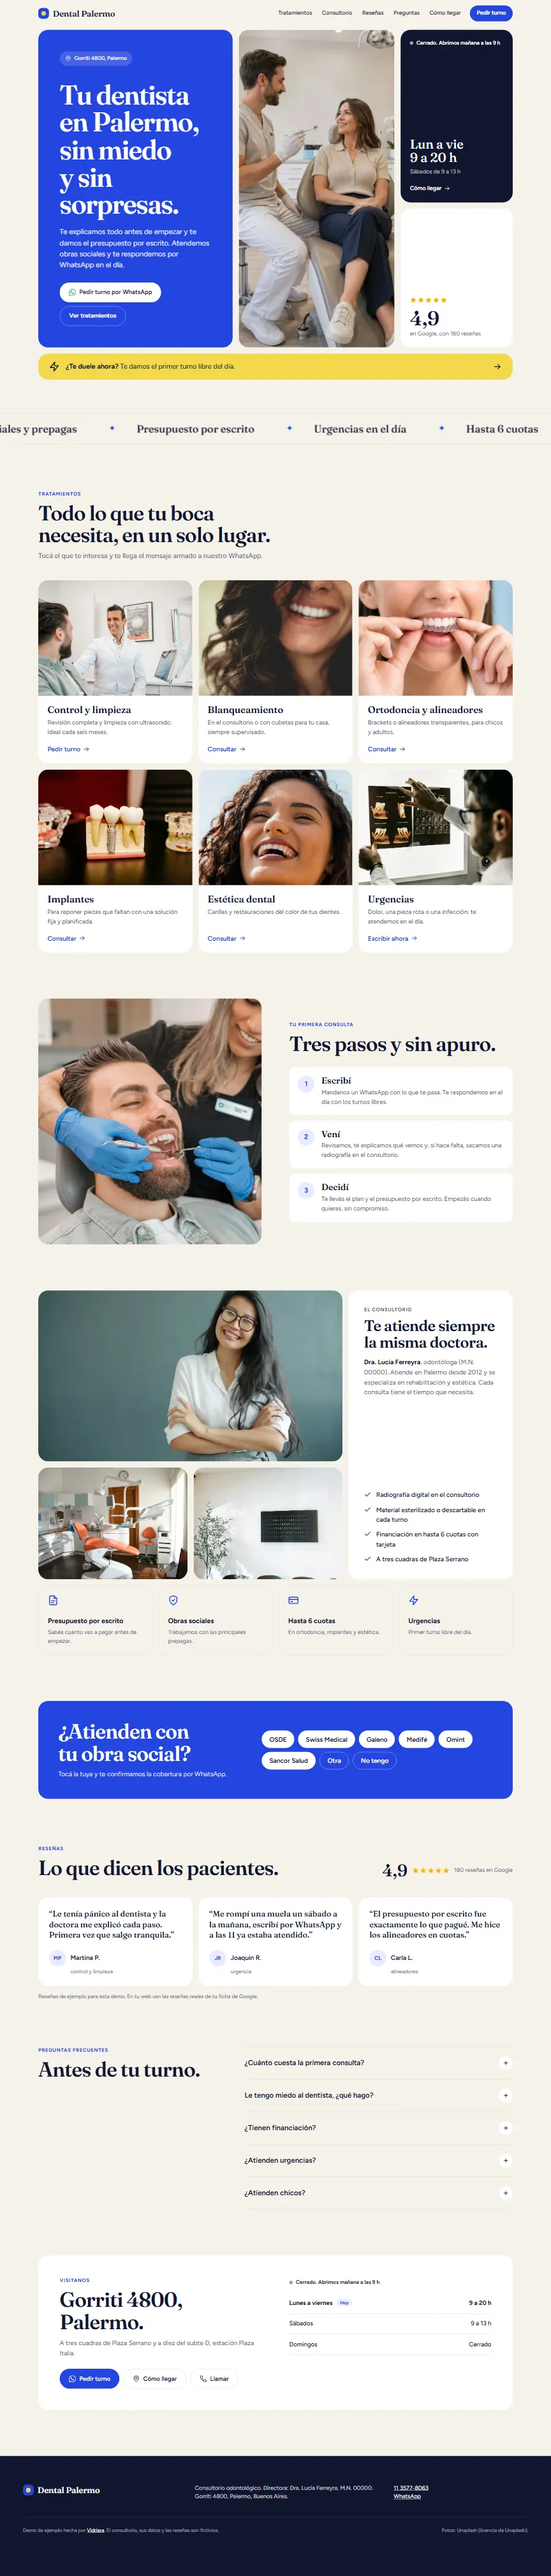
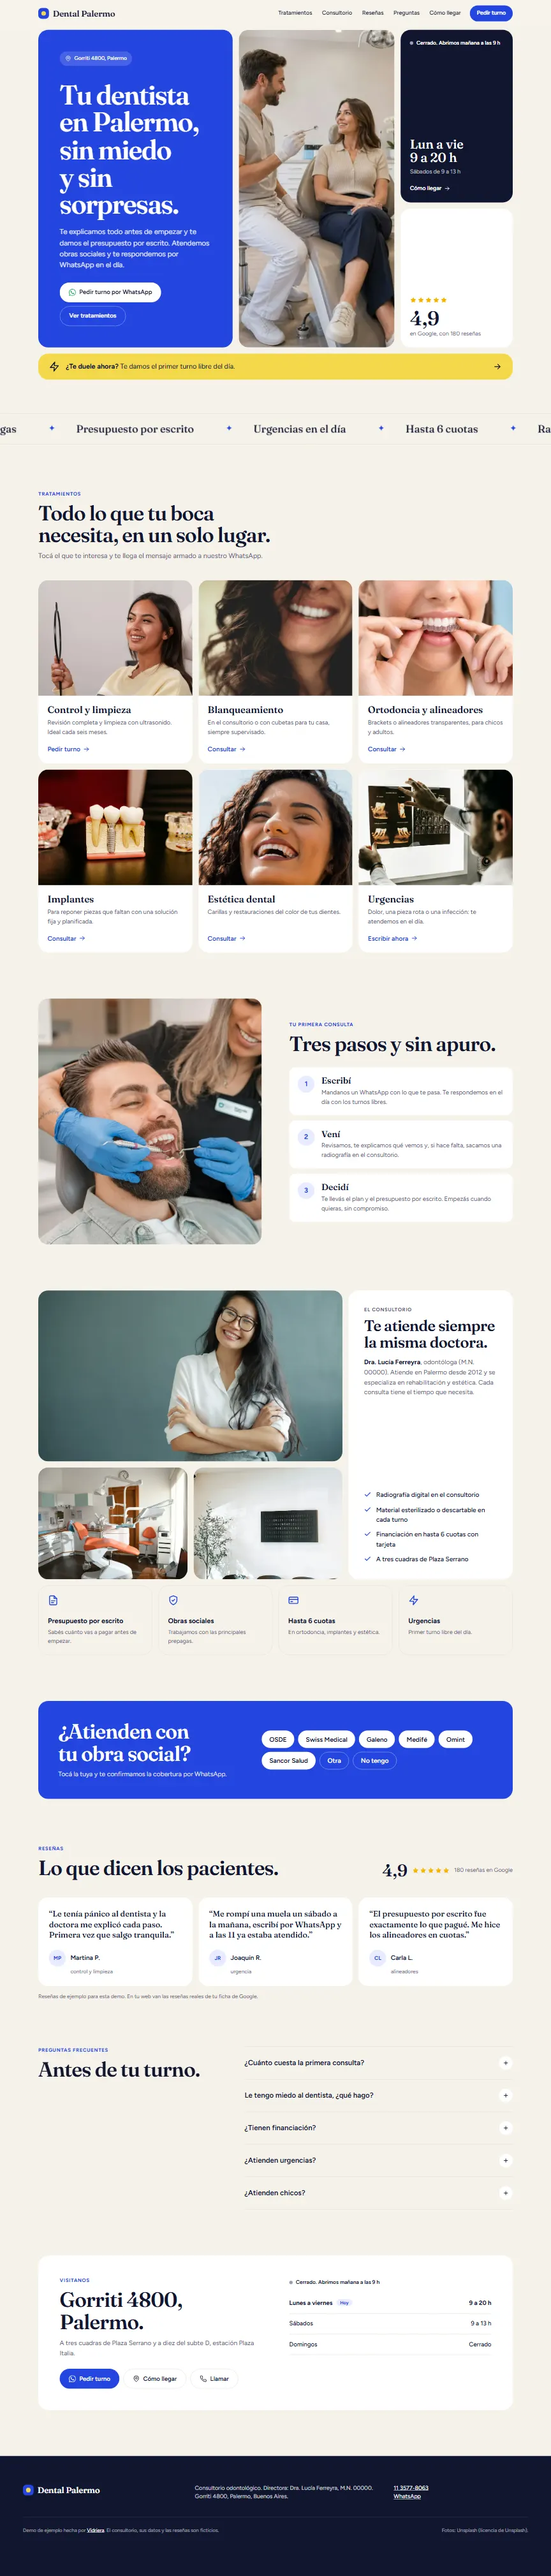
Foto de control y limpieza: paciente sonriendo en el sillón

Changed region(s): [[0.0625, 0.2184, 0.375, 0.2808]]

diff --git a/vidriera/demos/odontologia/index.html b/vidriera/demos/odontologia/index.html
@@ -109,7 +109,7 @@
 
     <div class="treatments">
       <article class="treat" data-reveal>
-        <img src="img/control.webp" width="1400" height="934" loading="lazy" alt="Odontólogo sonriendo mientras charla con un paciente tranquilo en el consultorio">
+        <img src="img/control.webp" width="1400" height="1866" loading="lazy" alt="Paciente sonriendo en el sillón del consultorio mientras se mira los dientes en un espejo" style="object-position: 50% 28%">
         <div class="treat-body">
           <h3>Control y limpieza</h3>
           <p>Revisión completa y limpieza con ultrasonido. Ideal cada seis meses.</p>
